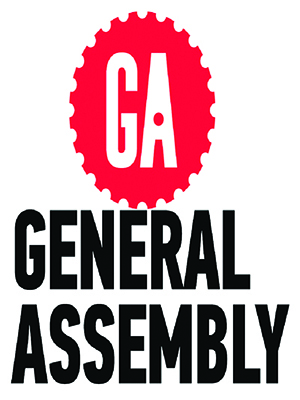
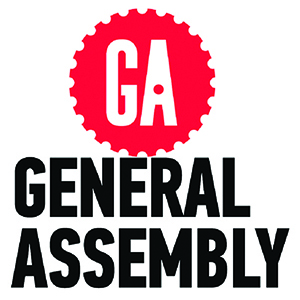
changed image size to reduce file size

diff --git a/portfolio_v2/stacey_portfolio_2017/assets/css/responsive.css b/portfolio_v2/stacey_portfolio_2017/assets/css/responsive.css
@@ -2,7 +2,7 @@
 
 *   MaterialX Media Queries
 
-TOC : 
+TOC :
 
 1. screenwidth greater than 1024px (Medium Screen/Large Tablets)
 2. screenwidth less than 1024px (Medium Screen/Large Tablets)
@@ -121,7 +121,7 @@ TOC :
     }
 
     .mobile-profile{
-        background: url('../../images/home-bg.jpg') no-repeat scroll center center / cover ;
+        background: url('../../images/background.jpg') no-repeat scroll center center / cover ;
         display: block;
         min-height: 160px;
         position: relative;
@@ -199,8 +199,8 @@ TOC :
         padding: 80px 0;
     }
 
-    .about-inner, .skill-inner, .experience-inner, 
-    .education-inner,  .portfolio-inner, .team-inner, 
+    .about-inner, .skill-inner, .experience-inner,
+    .education-inner,  .portfolio-inner, .team-inner,
     .funfact-inner, .testimonial-inner, .contact-inner {
         padding: 0 20px;
     }
@@ -429,8 +429,8 @@ TOC :
         font-size: 12px;
     }
 
-    .about-inner, .skill-inner, .experience-inner, 
-    .education-inner, .portfolio-inner, .team-inner, 
+    .about-inner, .skill-inner, .experience-inner,
+    .education-inner, .portfolio-inner, .team-inner,
     .funfact-inner, .testimonial-inner, .blog-inner, .contact-inner {
         padding: 0;
     }

diff --git a/portfolio_v2/stacey_portfolio_2017/index.html b/portfolio_v2/stacey_portfolio_2017/index.html
@@ -87,7 +87,7 @@
                     <li class="mobile-profile">
                      <div class="profile-inner">
                         <div class="pp-container">
-                            <img src="images/person.png" alt="">
+                            <img src="images/headshot.jpg" alt="">
                         </div>
                         <h3>Stacey Sugiono</h3>
                         <h5>Full Stack Software Developer</h5>
